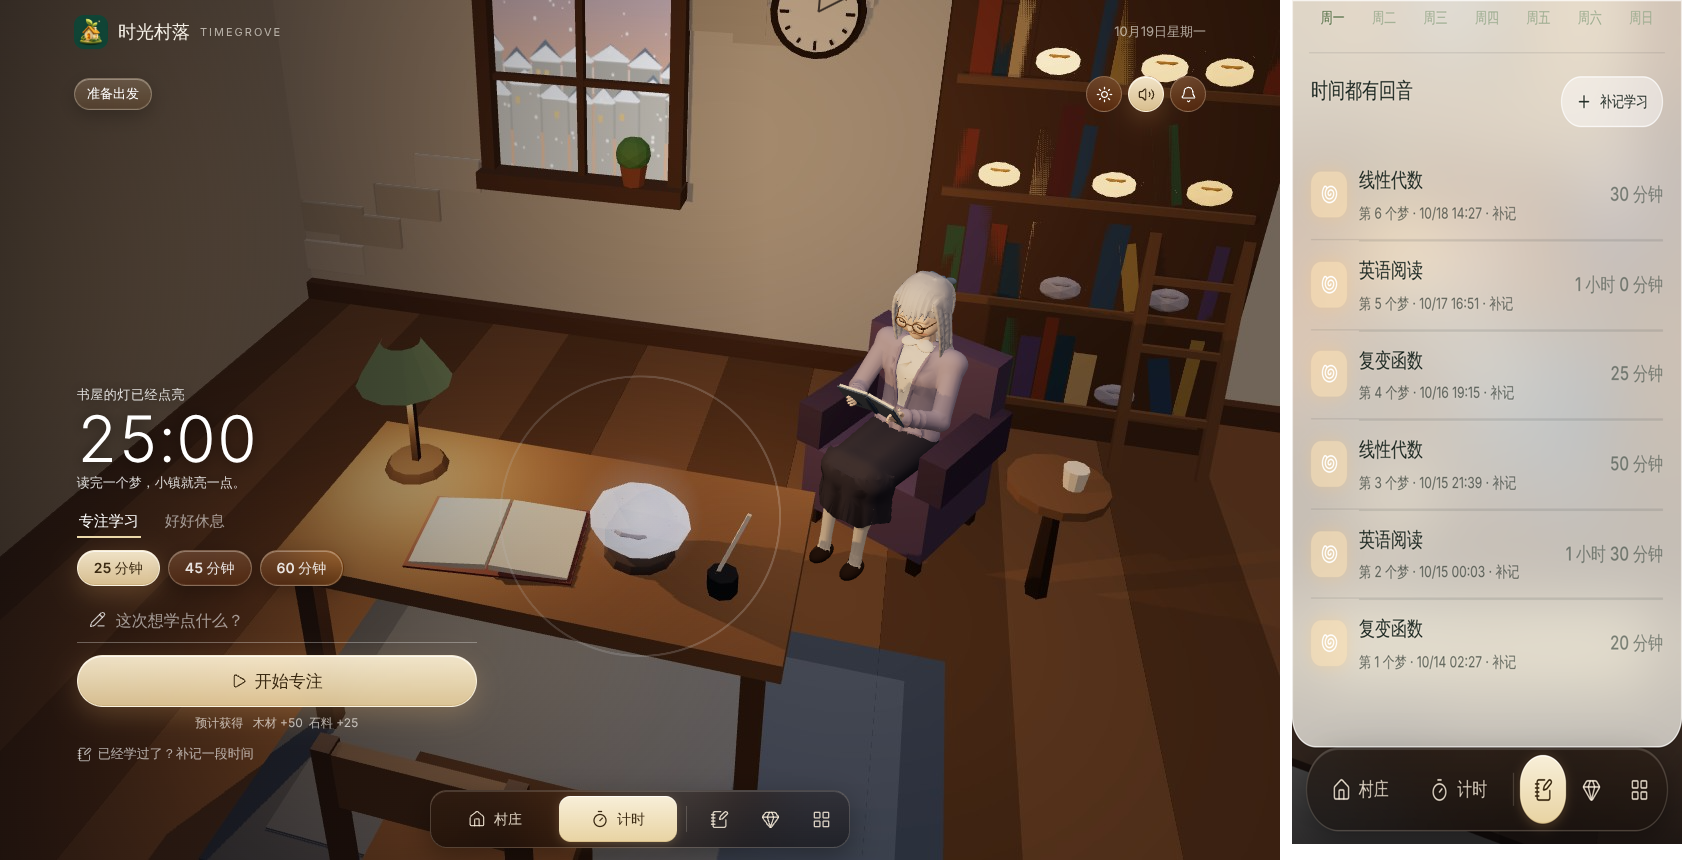
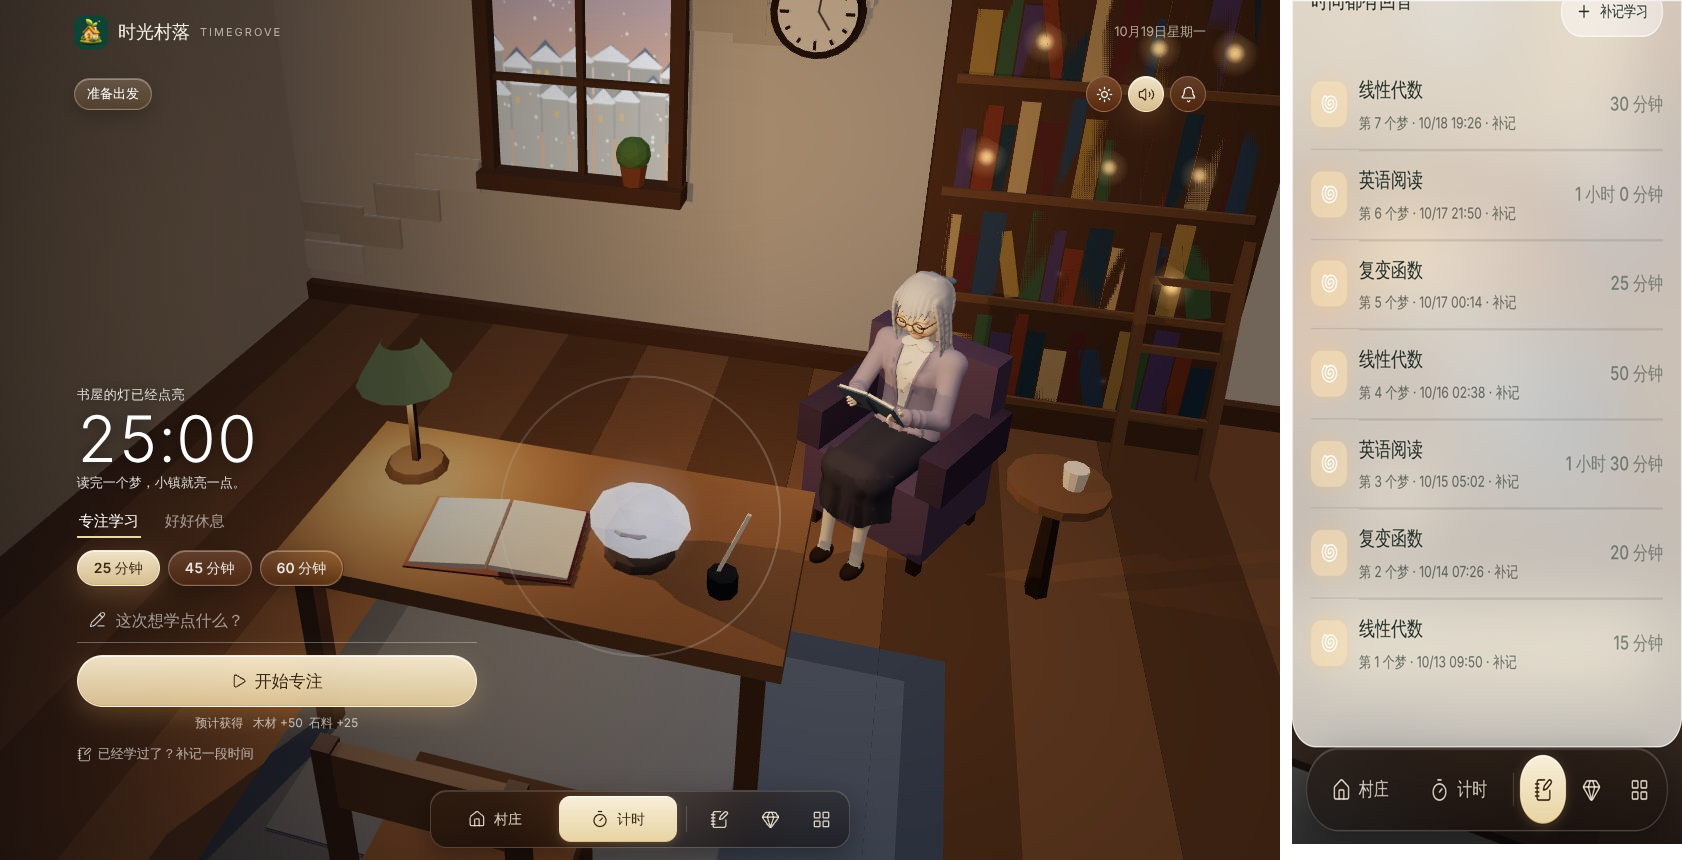
Dream shelf: points of light instead of shell models
The shells repeated one model and didn't look good. Each dream read is now
a soft warm point of light in front of the book spines; unread places keep
only a faint cool glint, and the shelves are full of books again. Longer
sessions glow a little larger, the newest brightest. The lights are hidden
while her layers are drawn, so they belong to the room image only.

Claude-Session: https://claude.ai/code/session_016Rv1tnGkMJ5CNT4tZswNT8

diff --git a/dist/reading-room.js b/dist/reading-room.js
@@ -124,9 +124,9 @@ function outsideTexture({daypart, snow, warmth, cover}) {
   return t;
 }
 
-function shell(b, x, y, z, s = 1, glow = 0.35, color = C_SHELL) {
+function shell(b, x, y, z, s = 1, glow = 0.35) {
   b.at(x, y, z, {s}, () => {
-    b.ball(0.13, color, 0, 0.09, 0, {
+    b.ball(0.13, C_SHELL, 0, 0.09, 0, {
       sx: 1.15,
       sy: 0.75,
       sz: 0.95,
@@ -134,22 +134,39 @@ function shell(b, x, y, z, s = 1, glow = 0.35, color = C_SHELL) {
       mat: {emissive: glow, rough: 0.4}
     });
     for (let i = 0; i < 4; i++)
-      b.tor(0.11 - i * 0.022, 0.008, shade(color, -0.06), 0, 0.12 + i * 0.012, 0, {rx: H, m: 14});
+      b.tor(0.11 - i * 0.022, 0.008, shade(C_SHELL, -0.06), 0, 0.12 + i * 0.012, 0, {rx: H, m: 14});
   });
 }
 
 // Builds the room. Returns the world positions the page needs to animate.
-// Dream shells on the shelf: pale until read. Every finished study session lights one, from eye level
-// outwards; longer sessions glow a little brighter and the newest brightest. `dreams` holds the
-// recent sessions' lengths in minutes, oldest first (only as many as there are shells).
-const SHELL_SLOTS = 12; // ui/reading.js sends at most this many
-const SHELL_LIT = 0xffc77a,
-  SHELL_PALE = 0xa9a8b6;
-function shellLight(dreams, rank) {
-  if (rank >= dreams.length) return null;
+// Dreams read, as points of light along the bookshelf: every finished study session lights one, from
+// eye level outwards; longer sessions glow a little larger and the newest brightest. Unread places
+// keep only a faint cool glint. `dreams` holds the recent sessions' lengths in minutes, oldest first
+// (only as many as there are places).
+const LIGHT_SLOTS = 12; // ui/reading.js sends at most this many
+function dreamLight(dreams, rank) {
+  if (rank >= Math.min(dreams.length, LIGHT_SLOTS)) return null;
   const min = dreams[rank],
     newest = rank === dreams.length - 1;
-  return newest ? 1.6 : min >= 45 ? 1.15 : min >= 25 ? 0.9 : 0.7;
+  return newest ? 1.35 : min >= 45 ? 1.1 : min >= 25 ? 0.95 : 0.8;
+}
+// a soft round glow, drawn once and shared by every point of light
+let glowTex = null;
+function glowTexture() {
+  if (glowTex) return glowTex;
+  const c = document.createElement('canvas');
+  c.width = c.height = 64;
+  const g = c.getContext('2d'),
+    grd = g.createRadialGradient(32, 32, 0, 32, 32, 32);
+  grd.addColorStop(0, 'rgba(255,255,255,1)');
+  grd.addColorStop(0.18, 'rgba(255,255,255,0.85)');
+  grd.addColorStop(0.45, 'rgba(255,255,255,0.22)');
+  grd.addColorStop(1, 'rgba(255,255,255,0)');
+  g.fillStyle = grd;
+  g.fillRect(0, 0, 64, 64);
+  glowTex = new THREE.CanvasTexture(c);
+  glowTex.colorSpace = THREE.SRGBColorSpace;
+  return glowTex;
 }
 function room(b, {snowTex, skyTop, dreams = []}) {
   // floor planks and rug
@@ -200,14 +217,14 @@ function room(b, {snowTex, skyTop, dreams = []}) {
       {rz: -a}
     );
   }
-  // tall bookshelf on the right, with dream shells among the books
+  // tall bookshelf on the right; points of light hang in front of the books
   const slots = [];
   b.at(1.75, 0, -2.0, () => {
     b.box(1.5, 2.9, 0.42, C_WOOD2, 0, 1.45, 0);
     b.box(1.38, 2.75, 0.04, shade(C_WOOD2, -0.12), 0, 1.45, -0.17);
     const cs = [0x7a4a46, 0x4b6584, 0xb59a5a, 0x587a5c, 0x6f5d8c, 0x9a5a3e, 0x3f5a6e, 0xc9b184];
-    // where each shelf leaves room for a shell (2 + 2 + 3 + 3 + 2 = SHELL_SLOTS)
-    const gaps = [
+    // where each shelf has a point of light (2 + 2 + 3 + 3 + 2 = LIGHT_SLOTS)
+    const spots = [
       [-0.55, 0.1],
       [-0.2, 0.3],
       [-0.62, -0.08, 0.3],
@@ -218,16 +235,10 @@ function room(b, {snowTex, skyTop, dreams = []}) {
     for (let r = 0; r < 5; r++) {
       const y = 0.18 + r * 0.56;
       b.box(1.38, 0.04, 0.38, C_WOOD, 0, y, 0.04);
-      let x = -0.64,
-        g = 0;
+      for (const x of spots[r]) slots.push({x: x + 0.11, y, r});
+      let x = -0.64;
       while (x < 0.6) {
         n++;
-        if (g < gaps[r].length && x >= gaps[r][g]) {
-          slots.push({x: x + 0.11, y: y + 0.02, r});
-          x += 0.26;
-          g++;
-          continue;
-        }
         const w = 0.06 + ((n * 37) % 5) * 0.012,
           h = 0.3 + ((n * 53) % 7) * 0.03,
           lean = n % 9 === 0 ? 0.25 : 0;
@@ -238,15 +249,13 @@ function room(b, {snowTex, skyTop, dreams = []}) {
     // read ones fill from eye level (the middle shelf) outwards, right to left so tall phone views,
     // which only see the shelf's right end, see them too
     const order = [2, 3, 1, 4, 0];
-    slots
-      .sort((p, q) => order.indexOf(p.r) - order.indexOf(q.r) || q.x - p.x)
-      .forEach((p, i) => {
-        const g = shellLight(dreams, i);
-        // at the front edge of the shelf, clear of the book spines
-        if (g === null) shell(b, p.x, p.y, 0.13, 0.95, 0.04, SHELL_PALE);
-        else shell(b, p.x, p.y, 0.13, 0.95, g, SHELL_LIT);
-      });
+    slots.sort((p, q) => order.indexOf(p.r) - order.indexOf(q.r) || q.x - p.x);
   });
+  // placed in the world (the shelf stands at 1.75, -2.0), a little in front of the book spines
+  const lights = slots.map((p, i) => ({
+    at: new THREE.Vector3(1.75 + p.x, p.y + 0.2, -2.0 + 0.25),
+    glow: dreamLight(dreams, i)
+  }));
   // ladder leaning on the shelf
   b.at(2.25, 0, -1.55, {rx: -0.22}, () => {
     for (const s of [-1, 1]) b.box(0.05, 2.6, 0.05, C_WOOD, s * 0.2, 1.3, 0);
@@ -300,6 +309,7 @@ function room(b, {snowTex, skyTop, dreams = []}) {
     b.box(0.52, 0.18, 0.04, C_WOOD, 0, 1.0, 0.23);
   });
   return {
+    lights,
     shell: shellAt.clone().add(new THREE.Vector3(0, 0.12, 0)),
     clock,
     lamp: new THREE.Vector3(desk.x - 0.6, desk.y + 0.47, desk.z - 0.15),
@@ -435,6 +445,23 @@ function build(opts) {
   ceil.rotation.x = PI / 2;
   ceil.position.set(0, 3.6, 0.4);
   grp.add(ceil);
+  // the dreams read: warm points of light along the shelf (unread places only a faint cool glint)
+  for (const {at, glow} of pts.lights) {
+    const lit = glow !== null,
+      m = new THREE.SpriteMaterial({
+        map: glowTexture(),
+        color: lit ? 0xffd28a : 0xc8d2ff,
+        opacity: lit ? Math.min(1, 0.55 + glow * 0.35) : 0.16,
+        transparent: true,
+        depthWrite: false,
+        toneMapped: false
+      }),
+      sprite = new THREE.Sprite(m);
+    sprite.position.copy(at);
+    sprite.scale.setScalar(lit ? 0.12 + glow * 0.08 : 0.06);
+    own.push(m);
+    grp.add(sprite);
+  }
   const coolSky = {day: 0xcdd9e4, dawn: 0xd9d2d6, dusk: 0xd6c6c4, night: 0x56607a}[daypart];
   scene.add(new THREE.HemisphereLight(coolSky, 0x4d4038, night ? 1.1 : 1.35));
   scene.add(new THREE.AmbientLight(night ? 0x4a4560 : 0x8a8478, night ? 1.4 : 0.6));
@@ -540,6 +567,7 @@ function teaThings(b) {
 function occlude(B, on) {
   if (B.occluding === on) return;
   B.grp.traverse(o => {
+    if (o.isSprite) o.visible = !on; // the lights belong to the room image, not her layer
     if (!o.isMesh) return;
     if (on) {
       o.userData.mat = o.material;

diff --git a/dist/ui/reading.js b/dist/ui/reading.js
@@ -39,14 +39,14 @@ function hourNow() {
   return d.getHours() + d.getMinutes() / 60;
 }
 
-// The dreams read so far, for the shells on the shelf: the most recent ones' lengths, oldest first,
-// rounded to the steps that change how brightly a shell glows.
-const SHELL_SLOTS = 12;
+// The dreams read so far, for the points of light on the shelf: the most recent ones' lengths, oldest first,
+// rounded to the steps that change how brightly a light glows.
+const LIGHT_SLOTS = 12;
 function dreamsRead() {
   return state.sessions
     .filter(x => x.kind === 'study')
     .sort((a, b) => a.endedAt - b.endedAt)
-    .slice(-SHELL_SLOTS)
+    .slice(-LIGHT_SLOTS)
     .map(x => (x.seconds >= 45 * 60 ? 45 : x.seconds >= 25 * 60 ? 25 : 10));
 }
 

diff --git a/dist/index.html b/dist/index.html
@@ -259,7 +259,7 @@
         <p>
           <strong>读过的梦</strong
           ><span
-            >每完成一段专注学习，就读完了一个梦：书屋书架上会有一枚梦壳亮起，读得越久越亮，最新的一枚最亮。学习手记里也会记下这是你读过的第几个梦。</span
+            >每完成一段专注学习，就读完了一个梦：书屋的书架上会多亮起一点光，读得越久越亮，最新的一点最亮。学习手记里也会记下这是你读过的第几个梦。</span
           >
         </p>
         <p>
